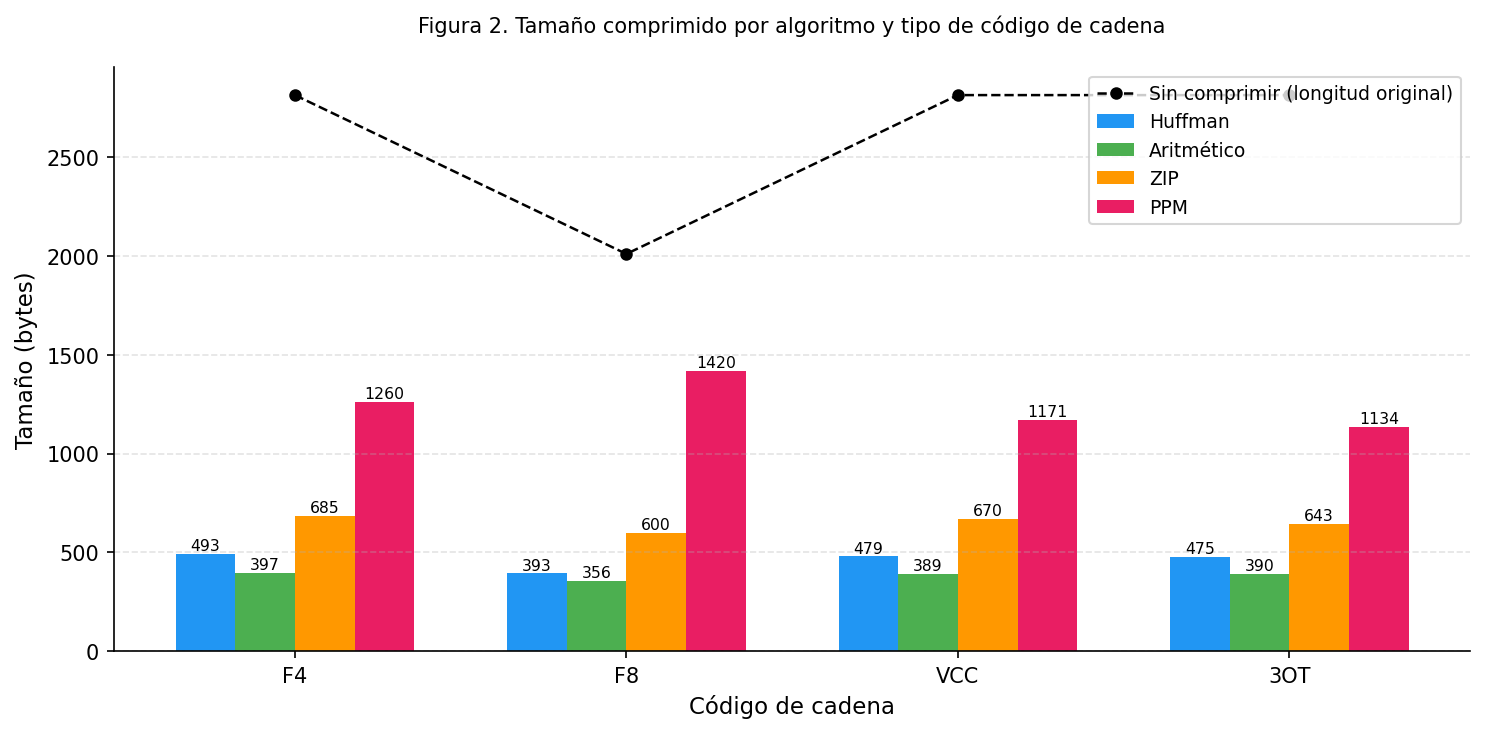
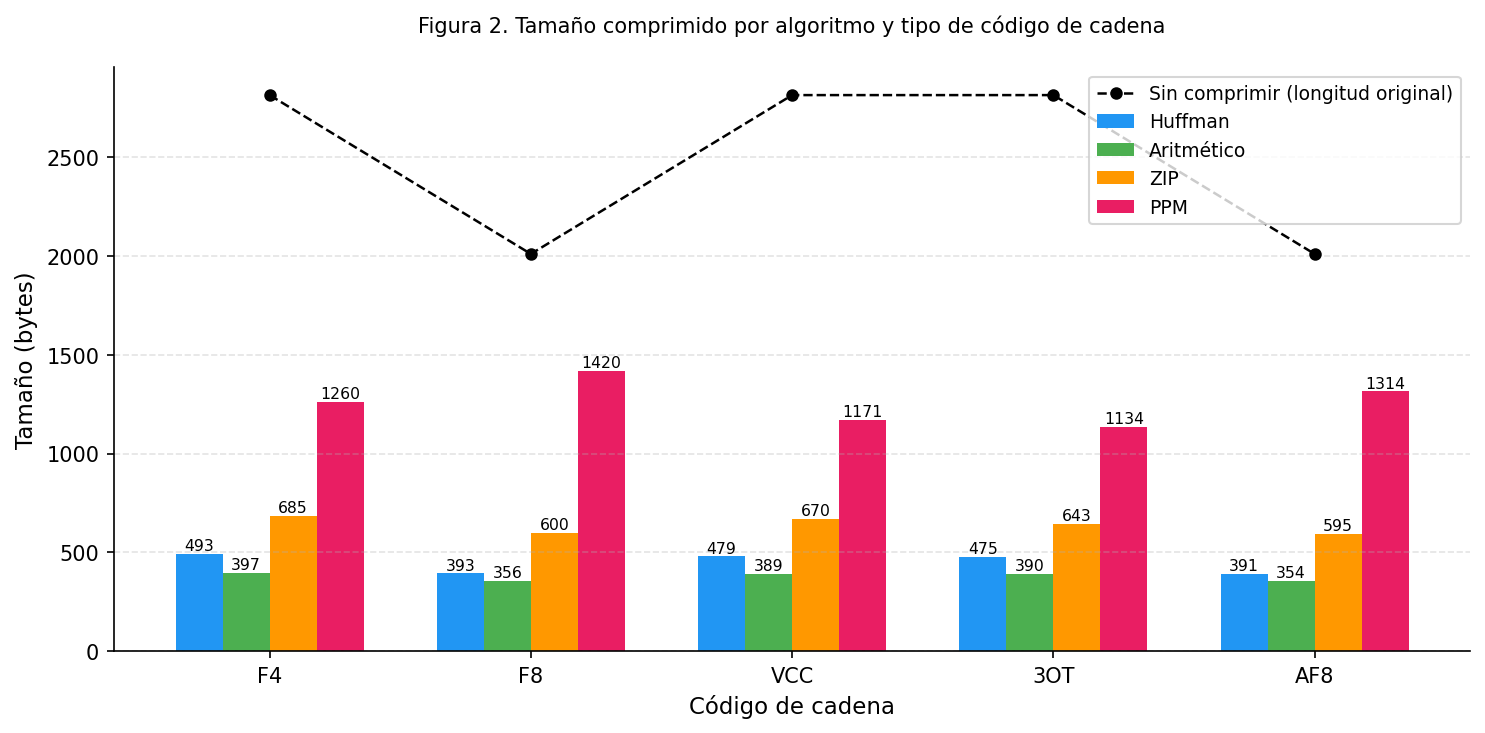
af8

diff --git a/main.py b/main.py
@@ -14,7 +14,7 @@ import matplotlib.pyplot as plt
 # sys.path.insert(0, r"C:\Users\delga\Documents\VISION\Compression_Algorithms")
 
 from src.logic.tools import process_and_binarize
-from src.logic.chain_codes import chain_f4, chain_f8, chain_vcc, chain_3ot
+from src.logic.chain_codes import chain_f4, chain_f8, chain_vcc, chain_3ot, chain_af8
 from src.transforms.Burrow_wheeler import bwt, ibwt
 from src.transforms.Move_to_front import (
     move_to_front_transform,
@@ -70,6 +70,8 @@ def main():
     images = os.listdir(directorio_img)
     
     for image in images:
+        if image is not "apple8.gif":
+            pass
         # 1. Crear carpeta destino individual para la imagen actual
         nombre_base, _ = os.path.splitext(image)
         carpeta_destino = f"resultados/resultado_{nombre_base}"
@@ -93,6 +95,7 @@ def main():
                 "F8":  chain_f8(img),
                 "VCC": chain_vcc(img),
                 "3OT": chain_3ot(img),
+                "AF8": chain_af8(img)
             }
 
             resultados = {}
@@ -203,6 +206,7 @@ def main():
             reconstrucciones = [
                 ("F4",  cadenas.get("F4",  []), decode_f4_to_matrix),
                 ("F8",  cadenas.get("F8",  []), decode_f8_to_matrix),
+                ("AF8",  cadenas.get("AF8",  []), decode_af8_to_matrix),
                 ("VCC", cadenas.get("VCC", []), decode_vcc_to_matrix),
                 ("3OT", cadenas.get("3OT", []), lambda c: decode_3ot_to_matrix(c)[0]),
             ]
